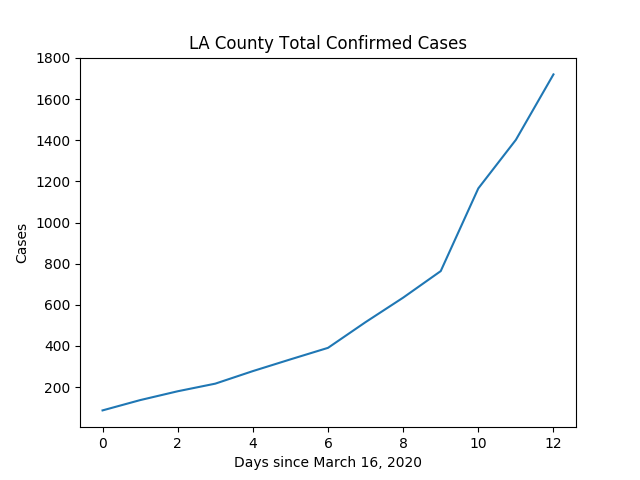
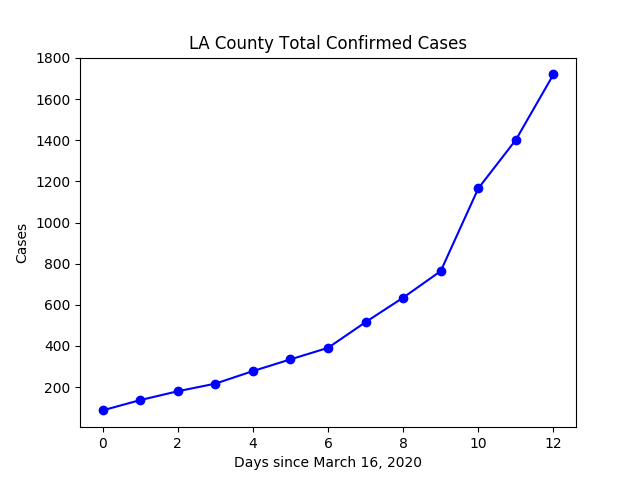
total cases' plots added

diff --git a/scripts/plot_total_cases.py b/scripts/plot_total_cases.py
@@ -1,0 +1,37 @@
+import csv
+import json
+import os
+import matplotlib.pyplot as plt
+
+#setting up the file path
+script_dir = os.path.dirname(__file__)
+rel_path = "../data/lacounty_total_case_count.json"
+abs_file_path = os.path.join(script_dir, rel_path)
+
+
+#this dictionaty will hold the parsed data in JSON format
+population_dict={}
+
+#parsing CSV
+with open(abs_file_path, 'r') as jsonfile:
+    reader=json.load(jsonfile)
+
+print(reader)
+x_array=[]
+y_array=[]
+i=0;
+for key,value in reader.items():
+    x_array.append(int(i))
+    y_array.append(int(value[1]))
+    i=i+1
+
+print(x_array)
+print(y_array.sort())
+
+
+plt.plot(x_array,y_array,marker='o', color='b')
+plt.xlabel("Days since March 16, 2020")
+plt.ylabel("Cases")
+plt.title("LA County Total Confirmed Cases")
+plt.yscale('log')
+plt.show()
